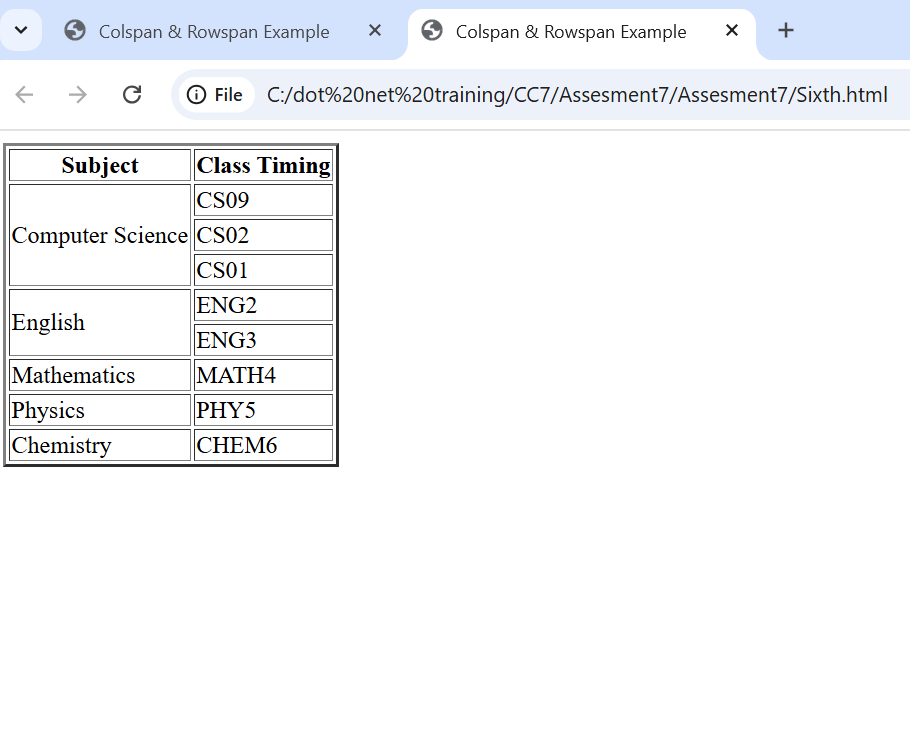
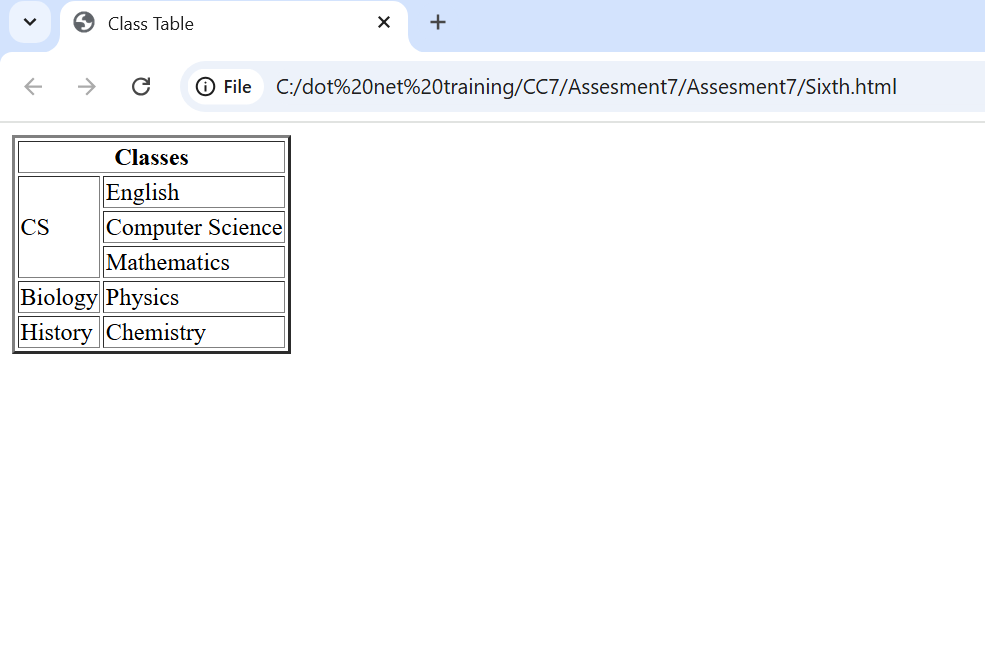
CC7 added

diff --git a/CC7/Assesment7/Assesment7/Sixth.html b/CC7/Assesment7/Assesment7/Sixth.html
@@ -2,43 +2,32 @@
 <html lang="en">
 <head>
     <meta charset="UTF-8">
-    <title>Colspan & Rowspan Example</title>
+    <meta name="viewport" content="width=device-width, initial-scale=1.0">
+    <title>Class Table</title>
 </head>
 <body>
 
     <table border="2">
         <tr>
-            <th>Subject</th>
-            <th>Class Timing</th>
+            <th colspan="2">Classes</th>
         </tr>
         <tr>
-            <td rowspan="3">Computer Science</td>
-            <td>CS09</td>
+            <td rowspan="3">CS</td>
+            <td>English</td>
         </tr>
         <tr>
-            <td>CS02</td>
-        </tr>
-        <tr>
-            <td>CS01</td>
-        </tr>
-        <tr>
-            <td rowspan="2">English</td>
-            <td>ENG2</td>
-        </tr>
-        <tr>
-            <td>ENG3</td>
+            <td>Computer Science</td>
         </tr>
         <tr>
             <td>Mathematics</td>
-            <td>MATH4</td>
         </tr>
         <tr>
+            <td>Biology</td>
             <td>Physics</td>
-            <td>PHY5</td>
         </tr>
         <tr>
+            <td>History</td>
             <td>Chemistry</td>
-            <td>CHEM6</td>
         </tr>
     </table>
 

diff --git a/CC7/Assesment7/Assesment7/Fifth.html b/CC7/Assesment7/Assesment7/Fifth.html
@@ -14,6 +14,7 @@
                 <li>Oranges</li>
                 <li>Bananas</li>
             </ul>
+            <a href="Fifth.html">Fifth.html</a>
         </li>
         <li>
             Hardware
